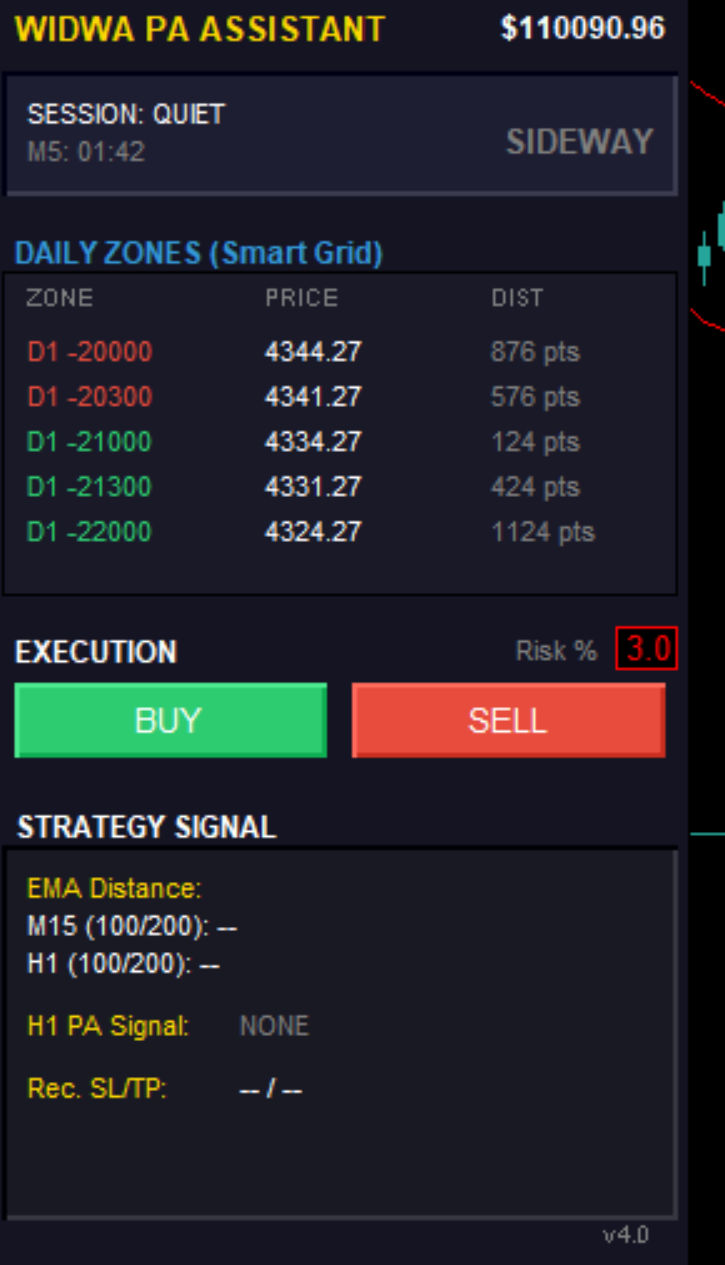
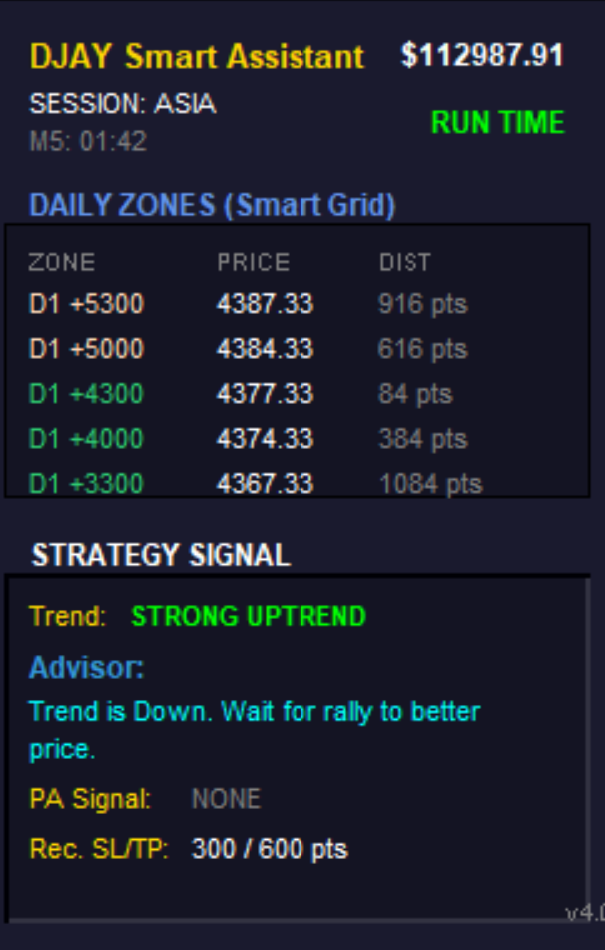
Fix Advisor trend logic conflict

diff --git a/source/advisor_feature_spec.md b/source/advisor_feature_spec.md
@@ -1,0 +1,97 @@
+# Feature Specification: Natural Language Trade Advisor
+
+## Overview
+This feature enhances the **DJAY Smart Assistant Dashboard** by transforming raw technical data (Trend, Zone, EMA, Signals) into a single, actionable natural language sentence. This aims to reduce cognitive load for the trader by providing a clear "Advisor" summary.
+
+## 1. UI Modification
+**Target Area:** The "STRATEGY SIGNAL" section of the dashboard panel (Bottom-Left).
+
+### Changes:
+1.  **Remove:** The raw "EMA Distance" lines (e.g., `M15 (100/200): -1763 / -5247`).
+    *   *Reason:* Raw point distances are hard to interpret quickly.
+2.  **Add:** A text-wrapping label or two lines of text labeled **"Advisor:"**.
+    *   *Font:* slightly larger or distinct color (e.g., Cyan or White).
+    *   *Location:* Between "Trend" and "PA Signal" (or replacing the EMA section).
+
+## 2. Logic Matrix (The Brain)
+
+The "Advisor" message is generated by combining three factors:
+1.  **Trend Direction** (Strong Up/Down, Weak Up/Down, Flat)
+2.  **Zone Proximity** (At Support, At Resistance, No Man's Land)
+3.  **Signal Status** (Buy Signal, Sell Signal, None)
+
+### State Definitions
+
+**A. Trend State (Existing Logic)**
+*   `UP`: Strong Uptrend / Uptrend / Weak Uptrend
+*   `DOWN`: Strong Downtrend / Downtrend / Weak Downtrend
+*   `FLAT`: Sideways
+
+**B. Zone State (New Logic)**
+*   `SUPPORT`: Price is within tolerance of a Buy Zone (Green).
+*   `RESISTANCE`: Price is within tolerance of a Sell Zone (PeachPuff).
+*   `MIDDLE`: Price is between zones (standard).
+
+**C. Extension State (Simplified EMA Logic)**
+*   `EXTENDED`: Price is far from EMA (e.g., > 500 pts on M15).
+*   `NORMAL`: Price is close to equilibrium.
+
+### Generated Messages Table
+
+| Trend | Zone Location | Signal | **Advisor Message (Output)** |
+| :--- | :--- | :--- | :--- |
+| **UP** | **Support** | **Buy** | "🔥 PERFECT BUY: Uptrend bounce off support with signal!" |
+| **UP** | **Support** | None | "Uptrend pullback to support. Watch for BUY signal." |
+| **UP** | **Resistance** | **Sell** | "⚠ Counter-trend Sell signal at resistance. Scalp with caution." |
+| **UP** | **Resistance** | None | "Strong Uptrend hitting resistance. Wait for breakout or pullback." |
+| **UP** | Middle | None | "Trend is Up. Wait for pullback to better price." |
+| **DOWN**| **Resistance**| **Sell** | "🔥 PERFECT SELL: Downtrend rejection at resistance!" |
+| **DOWN**| **Resistance**| None | "Downtrend rally to resistance. Watch for SELL signal." |
+| **DOWN**| **Support** | **Buy** | "⚠ Counter-trend Buy signal at support. Scalp with caution." |
+| **DOWN**| **Support** | None | "Strong Downtrend hitting support. Wait for breakdown or bounce." |
+| **FLAT**| **Support** | **Buy** | "Range bounce. Buying at support." |
+| **FLAT**| **Resistance**| **Sell** | "Range rejection. Selling at resistance." |
+| **FLAT**| Middle | Any | "Market is choppy/sideways. Best to stay out." |
+
+## 3. Implementation Details
+
+### Helper Function: `GetAdvisorMessage()`
+Create a function in `CSignalEngine` or `CDashboardPanel` that evaluates the current state and returns the string.
+
+```mql5
+string GetAdvisorMessage()
+{
+    // 1. Get Trend
+    ENUM_TREND_DIRECTION trend = GetTrendDirection();
+    
+    // 2. Get Zone Status
+    ENUM_ZONE_STATUS zone = GetCurrentZoneStatus();
+    
+    // 3. Get Active Signal
+    ENUM_SIGNAL_TYPE sig = GetActiveSignal();
+
+    // Logic Tree
+    if(trend == TREND_UP)
+    {
+        if(zone == ZONE_STATUS_IN_BUY1 || zone == ZONE_STATUS_IN_BUY2)
+        {
+            if(sig == SIGNAL_PA_BUY) return "🔥 PERFECT BUY: Trend + Support + Signal!";
+            return "Valid Buy Zone. Waiting for PA Signal...";
+        }
+        if(zone == ZONE_STATUS_IN_SELL1 || zone == ZONE_STATUS_IN_SELL2)
+        {
+            if(sig == SIGNAL_PA_SELL) return "⚠ Counter-trend Sell. Risky.";
+            return "Hit Resistance. Watch for Breakout or Pullback.";
+        }
+    }
+    // ... repeat for DOWN and FLAT ...
+    
+    return "Scanning market...";
+}
+```
+
+## 4. Prioritization
+This feature should be implemented alongside the **Chart Zones** update, as the "Zone Status" logic is shared between the visual chart and this text advisor.
+
+---
+**Status:** Ready for Development.

diff --git a/source/chart_zones_analysis.md b/source/chart_zones_analysis.md
@@ -11,9 +11,9 @@ This document outlines the strategic implementation of visual zones (Buy/Sell/Pi
 *   **Trading Bias:** Price above D1 Open suggests a Bullish Bias; price below suggests a Bearish Bias.
 *   **Toggle:** User can show/hide via input parameter.
 
-### B. Resistance Zones (Sell Zones)
+### B. Resistance Zones (Sell/Supply Zones)
 *   **Location:** Levels calculated *above* the current price (e.g., D1 Open + 300, D1 Open + 1000).
-*   **Visual Style:** Red semi-transparent rectangles (`OBJ_RECTANGLE`) with zone depth.
+*   **Visual Style:** PeachPuff semi-transparent rectangles (`OBJ_RECTANGLE`) with zone depth.
 *   **Zone Depth:** Each level has a range (e.g., D1 +300 ± 50 points) creating a visual zone, not just a line.
 *   **Strength Indication:**
     *   **Minor Zones** (±300): Thinner lines, lower opacity
@@ -94,7 +94,7 @@ if(previous_close_outside_zone && current_close_inside_zone) {
 ### Color Coordination
 To maintain UI consistency, the chart colors must match the `CDashboardPanel` variables:
 *   `m_buy_color` (Green/Lime: C'46,204,113') for support zones.
-*   `m_sell_color` (Red: C'231,76,60') for resistance zones.
+*   `m_sell_color` (PeachPuff: clrPeachPuff) for resistance/supply zones.
 *   `m_header_color` (Gold: C'255,215,0') for the D1 Open pivot line.
 
 ### Zone Opacity Settings
@@ -140,10 +140,10 @@ input bool   Show_Intermediate_Levels = true;// Show levels between minor/major
 Chart Layout:
 ┌─────────────────────────────────────────────────┐
 │  D1 +1000 ━━━━━━━━━━━━━━━━━━━━━━━━━━━━━━━ [1x] │ ← Major Zone (thicker)
-│  (Red rectangle, 50pt depth, 40% opacity)      │
+│  (PeachPuff rectangle, 50pt depth, 40% opacity)│
 │                                                 │
 │  D1 +300  ────────────────────────────── [0x]  │ ← Minor Zone (thinner)
-│  (Red rectangle, 50pt depth, 30% opacity)      │
+│  (PeachPuff rectangle, 50pt depth, 30% opacity)│
 │                                                 │
 │  D1 Open  - - - - - - - - - - - - - - - - - - │ ← Pivot (Gold dashed)
 │                                                 │
